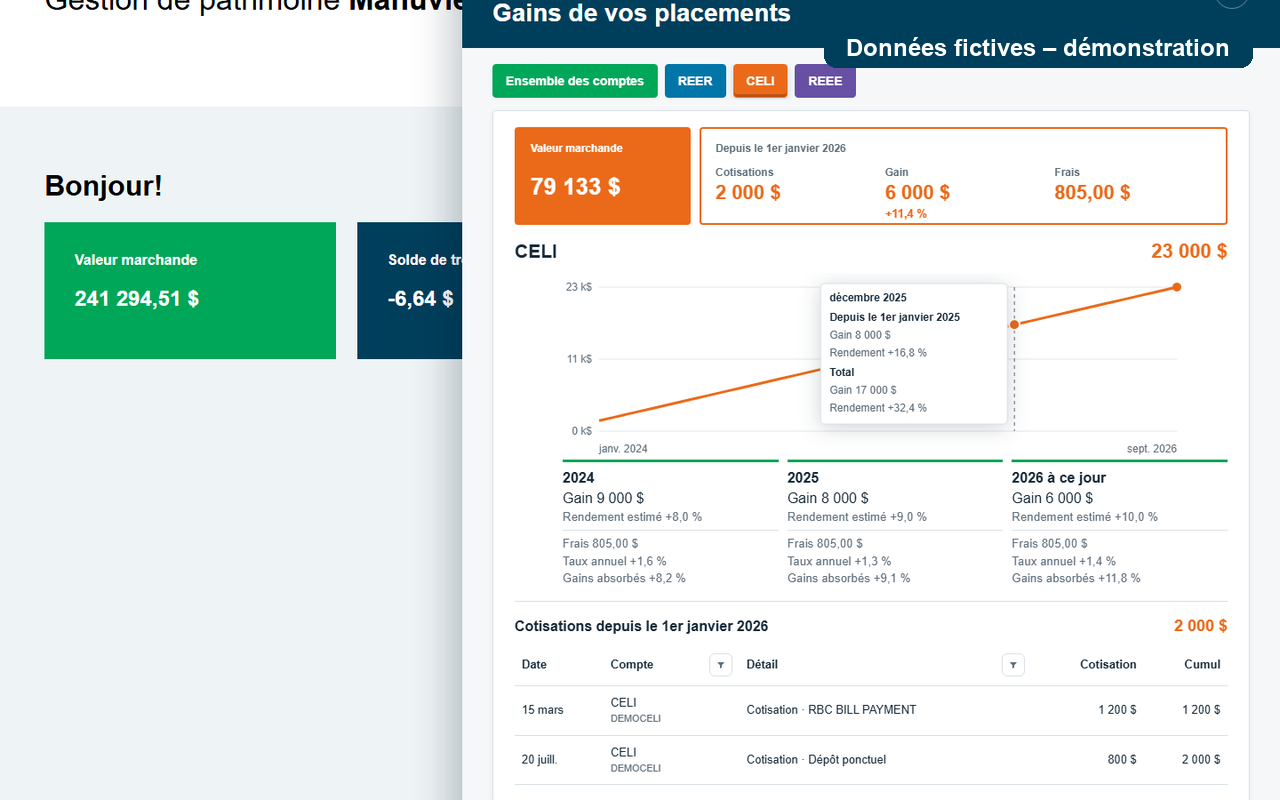
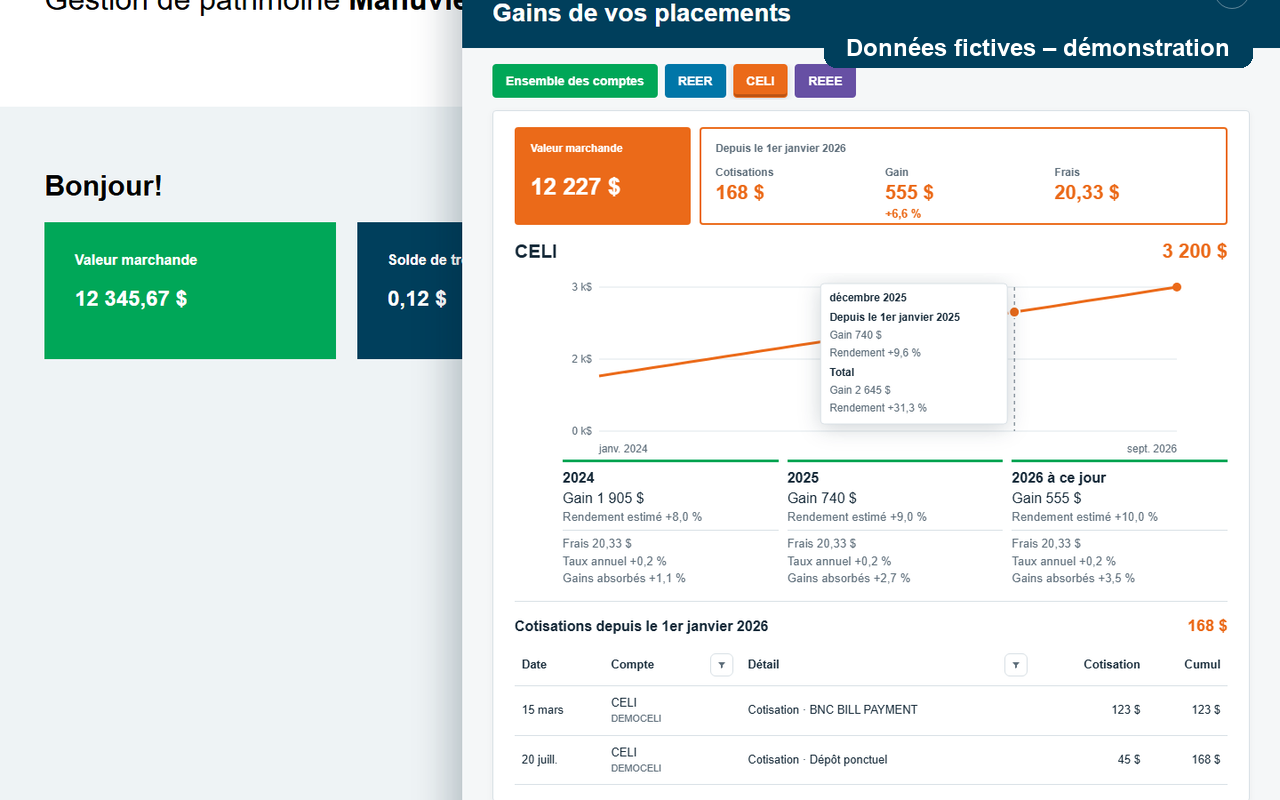
Use safer fake data in PR screenshots

diff --git a/tests/playwright/visual.spec.js b/tests/playwright/visual.spec.js
@@ -216,7 +216,7 @@ test("shows detailed loading progress", async ({ page }) => {
 
 test("renders the Manuvie Evolution dashboard", async ({ page }) => {
   await page.setContent(
-    `<!doctype html><html lang="fr"><body style="margin:0;background:#eef3f5;font-family:Arial"><header style="height:110px;background:#fff;padding:30px 50px;font-size:34px">Gestion de patrimoine <b>Manuvie</b></header><main style="padding:50px"><h1>Bonjour!</h1><div style="display:flex;gap:24px"><div style="background:#00a758;color:#fff;padding:34px;width:260px"><b>Valeur marchande</b><h2>241 294,51 $</h2></div><div style="background:#003f5c;color:#fff;padding:34px;width:260px"><b>Solde de trésorerie</b><h2>-6,64 $</h2></div></div></main></body></html>`,
+    `<!doctype html><html lang="fr"><body style="margin:0;background:#eef3f5;font-family:Arial"><header style="height:110px;background:#fff;padding:30px 50px;font-size:34px">Gestion de patrimoine <b>Manuvie</b></header><main style="padding:50px"><h1>Bonjour!</h1><div style="display:flex;gap:24px"><div style="background:#00a758;color:#fff;padding:34px;width:260px"><b>Valeur marchande</b><h2>12 345,67 $</h2></div><div style="background:#003f5c;color:#fff;padding:34px;width:260px"><b>Solde de trésorerie</b><h2>0,12 $</h2></div></div></main></body></html>`,
   );
   await page.addStyleTag({ path: path.resolve("src/styles.css") });
   await page.addScriptTag({ path: path.resolve("src/analytics.js") });
@@ -225,8 +225,8 @@ test("renders the Manuvie Evolution dashboard", async ({ page }) => {
   const months = Array.from({ length: 33 }, (_, index) =>
     Date.UTC(2024 + Math.floor(index / 12), index % 12, 28),
   );
-  const market = months.map((date, index) => [date, 135000 + index * 3200]);
-  const capital = months.map((date, index) => [date, 130000 + index * 1200]);
+  const market = months.map((date, index) => [date, 24680 + index * 375]);
+  const capital = months.map((date, index) => [date, 21000 + index * 190]);
   await page.evaluate(
     ({ market, capital }) => {
       window.postMessage({ source: "manuvie-evolution-page", type: "bridge-ready" }, "*");
@@ -272,21 +272,21 @@ test("renders the Manuvie Evolution dashboard", async ({ page }) => {
                 transactionType: "Frais De Programme À Honoraires",
                 securityDescription: "PREMIER FEE",
                 tradeDate: `15/06/${year}`,
-                totalValue: -700,
+                totalValue: -17,
               },
               {
                 accountNumber,
                 transactionType: "Tps",
                 securityDescription: "GST",
                 tradeDate: `15/06/${year}`,
-                totalValue: -35,
+                totalValue: -1.11,
               },
               {
                 accountNumber,
                 transactionType: "Taxe de vente du Québec",
                 securityDescription: "QST",
                 tradeDate: `15/06/${year}`,
-                totalValue: -70,
+                totalValue: -2.22,
               },
               {
                 accountNumber,
@@ -295,17 +295,17 @@ test("renders the Manuvie Evolution dashboard", async ({ page }) => {
                   accountNumber === "DEMOREER"
                     ? "YN5-6MAY-T BIWEEKLY PAC"
                     : accountNumber === "DEMOCELI"
-                      ? "RBC BILL PAYMENT"
+                      ? "BNC BILL PAYMENT"
                       : "Dépôt annuel",
                 tradeDate: `15/03/${year}`,
-                totalValue: 1200,
+                totalValue: 123,
               },
               {
                 accountNumber,
                 transactionType: "Cotisation",
                 securityDescription: "Dépôt ponctuel",
                 tradeDate: `20/07/${year}`,
-                totalValue: 800,
+                totalValue: 45,
               },
             ]),
           },
@@ -361,15 +361,15 @@ test("renders the Manuvie Evolution dashboard", async ({ page }) => {
   await expect(page.getByRole("columnheader", { name: "Cumul" })).toBeVisible();
   await expect(page.getByRole("cell", { name: /CELI/ }).first()).toBeVisible();
   await expect(
-    page.getByRole("cell", { name: "Cotisation · RBC BILL PAYMENT" }).first(),
+    page.getByRole("cell", { name: "Cotisation · BNC BILL PAYMENT" }).first(),
   ).toBeVisible();
-  await expect(page.getByRole("cell", { name: "1 200 $" }).first()).toBeVisible();
-  await expect(page.getByRole("cell", { name: "6 000 $" })).toBeVisible();
+  await expect(page.getByRole("cell", { name: "123 $" }).first()).toBeVisible();
+  await expect(page.getByRole("cell", { name: "504 $" })).toBeVisible();
   await page.getByRole("button", { name: "Filtrer Compte" }).click();
   await expect(page.getByRole("menu")).toBeVisible();
   await page.getByLabel("CELI").check();
   await expect(page.getByRole("button", { name: "Filtrer Compte" }).locator("b")).toHaveText("1");
-  await expect(page.getByRole("cell", { name: "2 000 $" })).toBeVisible();
+  await expect(page.getByRole("cell", { name: "168 $" })).toBeVisible();
   await page.screenshot({ path: "test-results/manuvie-evolution-contribution-filter.png" });
   await page.getByRole("button", { name: "Filtrer Compte" }).click();
   await expect(page.getByRole("menu")).toHaveCount(0);
